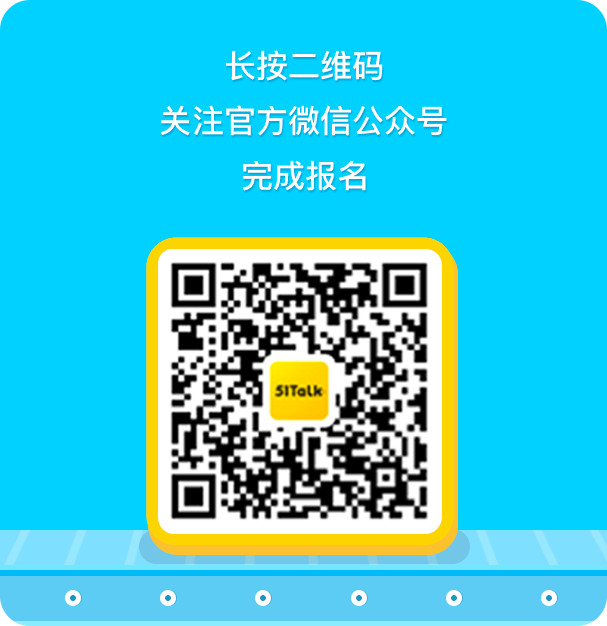
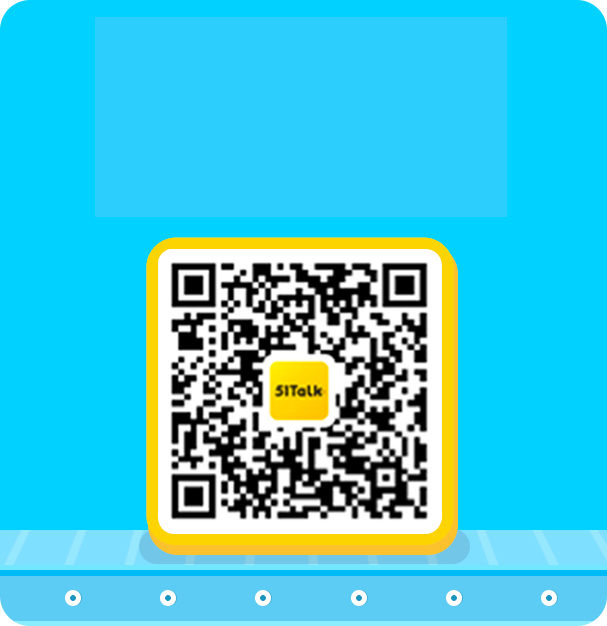
mod sb requirement

Changed region(s): [[0.1483, 0.0, 0.86, 0.3642]]

diff --git a/src/js/enroll.js b/src/js/enroll.js
@@ -56,13 +56,15 @@ let initProvince = () => {
         $(".province .yuko-select_items").append('<div>' + zone[i].name + '</div>');
     }
     
-    $(".province .yuko-select_items>div").on("touchstart",function(){
+    $(".province .yuko-select_items>div").on("touchstart",function(e){
         province = $(this).html();
         $(".city .yuko-select_items>div").unbind();
         $(".city .yuko-select_items").html("");
         $(".city .yuko-select_selected").html("请选择");
         city = "";
         appendCity(province);
+        e.preventDefault()
+        $('.yuko-textfield_input').blur()
     });
 }
 
@@ -74,8 +76,10 @@ let appendCity = (province) => {
             }
         }
     }
-    $(".city .yuko-select_items>div").on("touchstart",function(){
+    $(".city .yuko-select_items>div").on("touchstart",function(e){
         city = $(this).html();
+        e.preventDefault()
+        $('.yuko-textfield_input').blur()
     });
 }
 

diff --git a/html/attention.html b/html/attention.html
@@ -13,10 +13,14 @@
 <body>
     <div class="attention-container">
         <div class="qcode-content">
+            <p style="color: #fff;font-size: 16px;text-align: center;z-index: 999;position: absolute;top: 19px;left: 50%;width: 200px;margin-left: -100px;line-height: 27px;">
+                长按二维码<br/>
+                关注官网微信公众号<br/>
+                完成报名
+            </p>
             <img class="attention-img" src="../static/images/attention/QRcode.png" />
             <img class="attention-qcode" src="../static/images/attention/QRcode2.png" />
         </div>
-        
     </div>
 </body>
 </html>

diff --git a/src/scss/index.scss b/src/scss/index.scss
@@ -118,8 +118,8 @@
     background: #000;
 
     .star-video{
-        width: 100%;
-        height: 100%;
+        width: pxToRem(750px);
+        height: pxToRem(1453px);
         display: block;
         position: absolute;
         z-index: 1;
